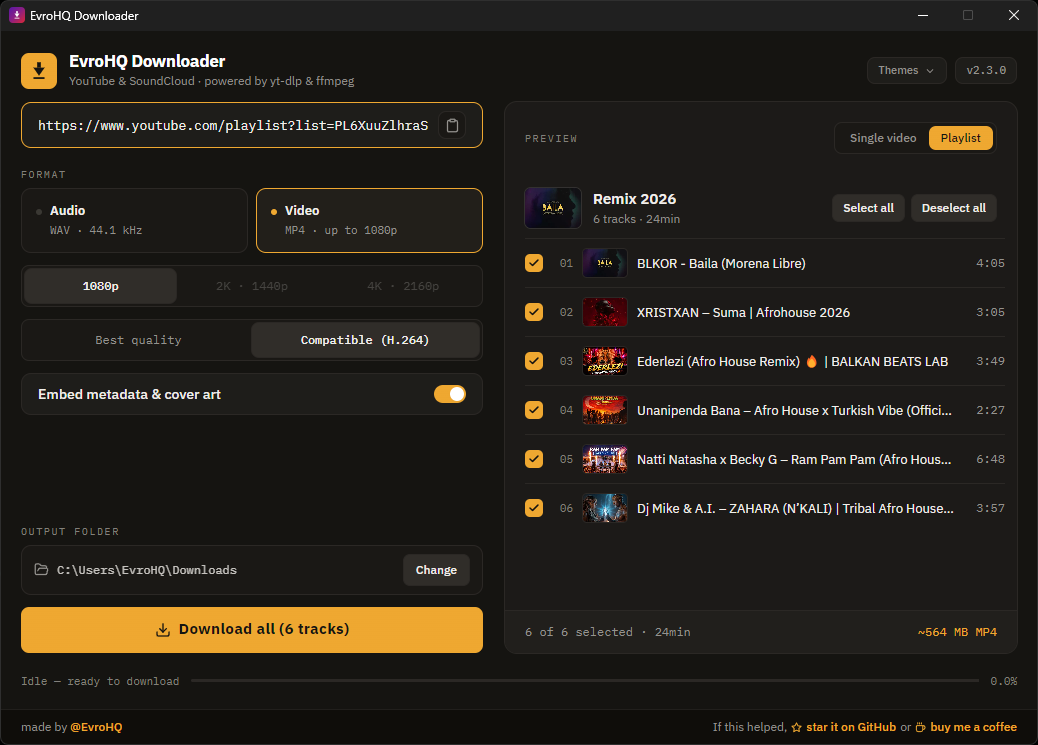
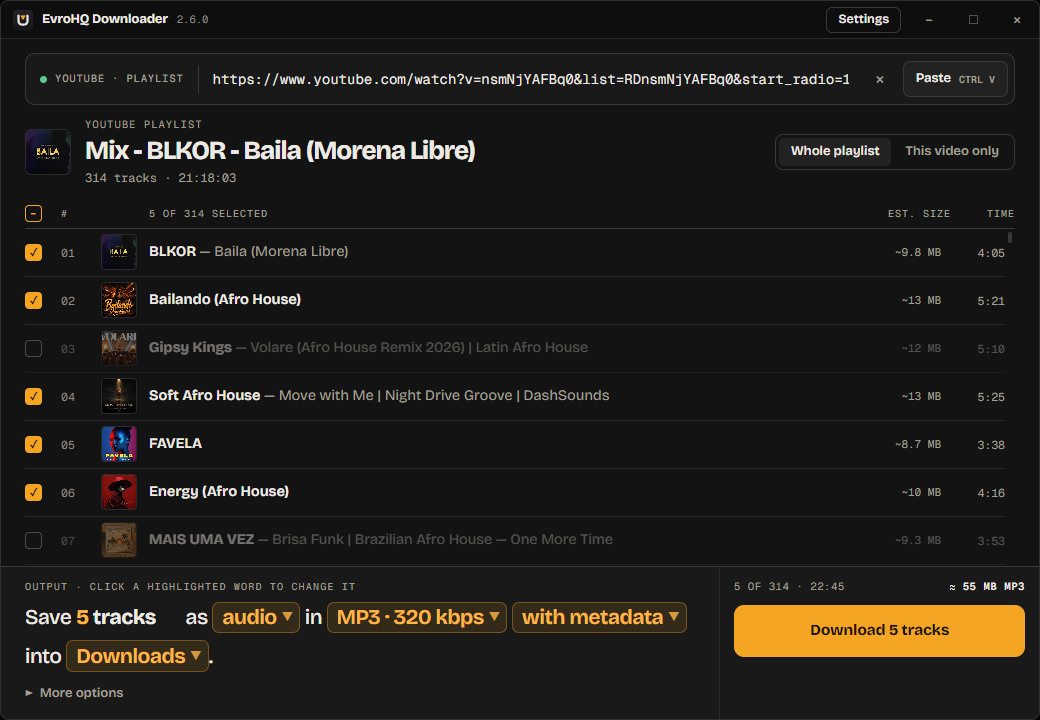
feat: replace Neon Brew with Midnight 13 and refresh Downloader to v2.6.1
Midnight 13 is live on Stake: new cover, portfolio copy, Stake link and an
evrogames logo credited beside the title. EvroHQ Downloader gets new
screenshots of all seven themes.

diff --git a/src/data/projects.ts b/src/data/projects.ts
@@ -1,11 +1,14 @@
-import downloader from "../assets/work/downloader.png";
+import dlEvrohq from "../assets/work/downloader-evrohq.png";
 import dlGraphite from "../assets/work/downloader-graphite-amber.png";
 import dlCarbon from "../assets/work/downloader-carbon-cyan.png";
 import dlPaper from "../assets/work/downloader-paper-rust.png";
 import dlObsidian from "../assets/work/downloader-obsidian-violet.png";
+import dlBone from "../assets/work/downloader-bone-forest.png";
+import dlCharcoal from "../assets/work/downloader-charcoal-signal-red.png";
 import evrodark from "../assets/work/evrodark.png";
 import fundoora from "../assets/work/fundoora.png";
-import neonBrew from "../assets/work/neon-brew.png";
+import midnight13 from "../assets/work/midnight13.png";
+import evrogamesLogo from "../assets/work/evrogames-Logo.png";
 import lunch from "../assets/work/lunch.png";
 import type { ImageMetadata } from "astro";
 
@@ -13,6 +16,10 @@ export interface Project {
   slug: string;
   index: string;
   title: string;
+  /** studio credited beside the title */
+  studio?: string;
+  /** white wordmark shown in place of the studio name */
+  studioLogo?: ImageMetadata;
   year: string;
   kind: string;
   stack: string[];
@@ -88,14 +95,16 @@ export const projects: Project[] = [
       "yt-dlp",
       "ffmpeg",
     ],
-    stat: "v2.3.5 · 7 themes",
+    stat: "v2.6.1 · 7 themes",
     cover: dlCarbon,
     coverAlt:
-      "EvroHQ Downloader window previewing a six-track playlist ready to download",
+      "EvroHQ Downloader window previewing a 314-track playlist with five tracks selected for MP3 download",
     gallery: [
       { src: dlGraphite, alt: "Graphite & Amber theme" },
-      { src: downloader, alt: "EvroHQ theme" },
+      { src: dlEvrohq, alt: "EvroHQ theme" },
+      { src: dlCharcoal, alt: "Charcoal & Signal Red theme" },
       { src: dlObsidian, alt: "Obsidian & Violet theme" },
+      { src: dlBone, alt: "Bone & Forest light theme" },
       { src: dlPaper, alt: "Paper & Rust light theme" },
     ],
     status: "Released · open source (MIT)",
@@ -125,9 +134,11 @@ export const projects: Project[] = [
     ],
   },
   {
-    slug: "neon-brew",
+    slug: "midnight-13",
     index: "A3",
-    title: "Neon Brew",
+    title: "Midnight 13",
+    studio: "evrogames",
+    studioLogo: evrogamesLogo,
     year: "2026",
     kind: "Slot game · Design & dev",
     stack: [
@@ -140,25 +151,31 @@ export const projects: Project[] = [
       "Stake Engine",
     ],
     stat: "Art direction + code",
-    cover: neonBrew,
+    cover: midnight13,
     coverAlt:
-      "Neon Brew slot game: a frog alchemist beside five reels in a night-time potion workshop",
-    status: "Designed and built in 2026 for Stake Engine",
-    links: [],
+      "Midnight 13 slot game: a five-by-five grid of clocks, keys, lanterns and ravens between a crooked clock house and a clock tower under a full moon",
+    status: "Live on Stake",
+    links: [
+      {
+        label: "Play on Stake",
+        href: "https://stake.us/casino/games/evrogames-midnight-13",
+      },
+    ],
     summary:
-      "A potion-brewing slot game with a frog alchemist, five reels in a moonlit workshop and two extra rows sealed in wax — art-directed, designed and built end to end.",
+      "A cluster-pays slot set in a haunted clockmaker's town at midnight, where every win winds a cursed clock toward the thirteenth strike — art-directed, designed and built end to end, and live on Stake.",
     brief:
-      "I wanted to see how far a slot game goes when the same person directs the world and writes the code: one character with attitude, a night-time workshop, and an interface you can read at a glance.",
+      "I wanted a slot whose core mechanic is something you can see: a clock that fills up as you win. One mascot with attitude, one hand-painted dark cartoon style, and a bonus that feels earned rather than random.",
     built: [
-      "The full art direction: the frog alchemist, the moonlit workshop, the symbol set and the wax-seal row locks.",
+      "The full art direction in one hand-painted style: background, frame, symbols, win titles, bonus screens and Mr. Thirteen, the plague-doctor clockmaker.",
       "The game, rendered with PixiJS 8 on a fixed 1920×1080 stage (1080×1920 in portrait), animated with GSAP and pixi-filters.",
-      "A Spine 4.2 rig for the frog, played back in Pixi, plus a Web Audio sound layer.",
+      "A Spine 4.2 rig for the mascot, played back in Pixi, plus a Web Audio sound layer.",
       "The interface in Svelte 5: bet bar, menus, rules and bonus screens over the canvas.",
       "A TypeScript game engine that turns each spin into a book of events in Stake's RGS format, with RTP simulation, maths export and a mock RGS server.",
     ],
     details: [
-      "High-pay icons — goggles, mortar, spellbook, ruby — stand apart from bold, colour-coded card letters.",
-      "Two extra reel rows wait behind wax seals above the grid.",
+      "5×5 grid, cluster pays: five or more connected symbols win, then tumble away for new ones to fall in.",
+      "The Cursed Clock: each winning tumble winds it, adding WILDs at 3 and 6 strikes and x2 at 9; the 13th strike opens the free spins.",
+      "The 13th Hour: 10 to 50 free spins with a persistent multiplier climbing from x1 to x100.",
       "An asset pipeline in Python: GPU background removal (BiRefNet), Real-ESRGAN upscaling and ffmpeg, feeding the symbols, UI and Spine rig.",
       "Images generated with ChatGPT, animations with Kling AI and music with Suno, finished in Ableton.",
       "Browser tests with Playwright.",
